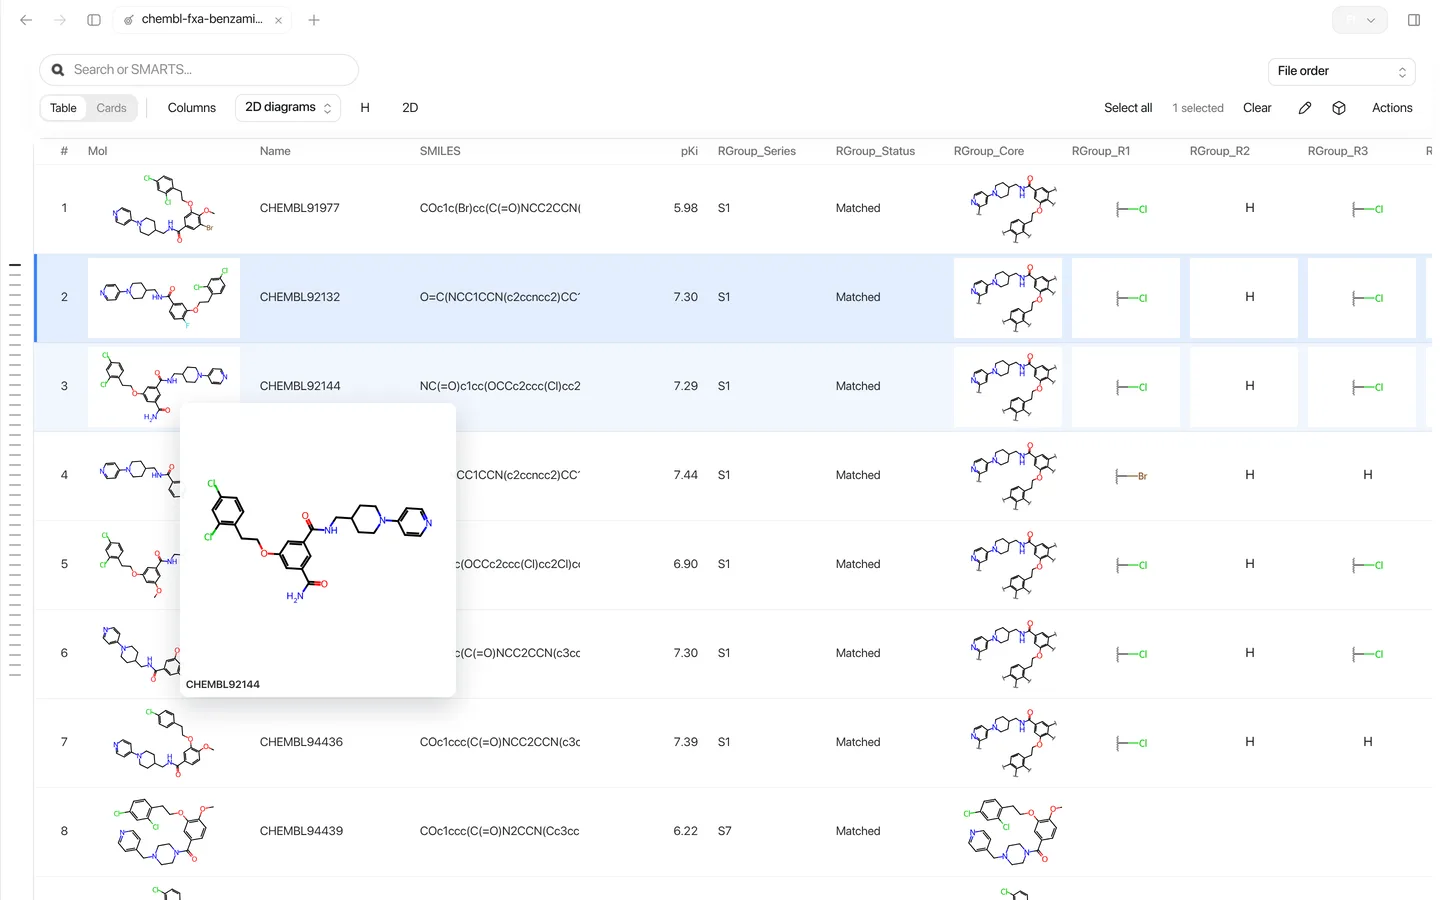
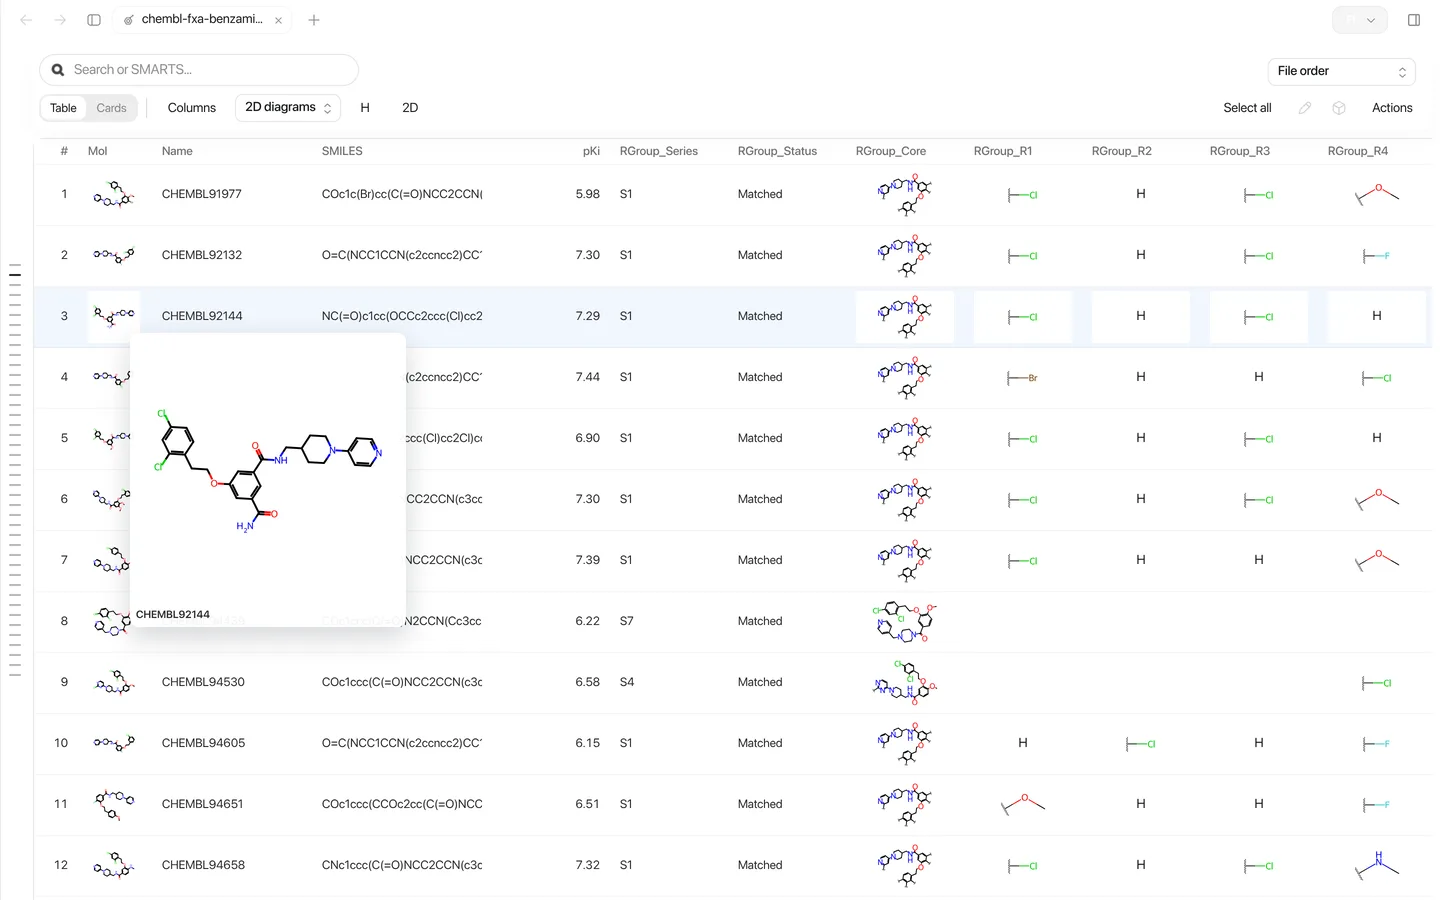
Show the restored card and table cell sizes in the collection docs

diff --git a/docs/linkedin-posts.md b/docs/linkedin-posts.md
@@ -399,9 +399,9 @@ In the tests, a pivot followed by an unpivot gives back the original table, and 
 
 Burette now draws every 2D structure for the box that shows it, at one scale.
 
-A molecule used to be drawn once and squeezed into whatever held it: a 52-pixel table cell, a tooltip, an inspector panel. Labels shrank with the bonds, and a lone substituent was blown up until it looked bigger than the molecule it came from. Now cards, table cells, hover previews, the Info panel and the SAR, matched pair and R-group dialogs all use the same bond length and readable labels. Generated layouts lie along the box, attachment points are drawn as wavy lines, and bromine and iodine stay visible in the dark theme.
+A molecule used to be drawn once and squeezed into whatever held it, and a lone substituent was blown up until it looked bigger than the molecule it came from. Now cards, table cells, hover previews, the Info panel and the SAR, matched pair and R-group dialogs all use the same bond length. Generated layouts lie along the box, attachment points are drawn as wavy lines, and bromine and iodine stay visible in the dark theme. Hover a table cell to see the molecule at full size.
 
-On a ChEMBL factor Xa series, a card now fits a whole benzamide with labels at 10 px, and the R-group columns read as the substituents a chemist would draw.
+On a ChEMBL factor Xa series, the R-group columns now read as the substituents a chemist would draw: Cl, F or a methoxy group on a wavy line, and a hydrogen as H.
 
 #Cheminformatics #MedicinalChemistry
 
@@ -415,12 +415,12 @@ On a ChEMBL factor Xa series, a card now fits a whole benzamide with labels at 1
 Drafts for the LigandPro platform account. Screenshots are in
 `~/Documents/Projects/platform-media/molecule-scale/`.
 
-## Structures you can read in every list
+## Molecules at one scale
 
 The LigandPro platform now draws molecules at one scale everywhere they appear.
 
-The molecule table, collection tables and global search used to show thumbnails of 56 by 40 pixels, too small to tell gefitinib from imatinib without hovering. Small fragments went the other way and filled their box, so ethanol looked larger than a kinase inhibitor. Each structure is now drawn at the size of its frame with a shared bond length, long molecules lie along the frame, table thumbnails are more than twice as large, and the hover preview shows the whole molecule at a readable size in both themes.
+Previews used to be drawn once and squeezed into their frame, and small fragments filled whatever box they got, so ethanol looked larger than a kinase inhibitor. Each structure is now drawn at the size of its frame with a shared bond length, long molecules lie along the frame, and the hover preview shows the whole molecule at a readable size in both themes.
 
 #DrugDiscovery #Cheminformatics
 
-- Attach: `light-table-before-after.png`, `light-search-before-after.png`
+- Attach: `dark-grid-before-after.png`, `dark-hover-before-after.png`
